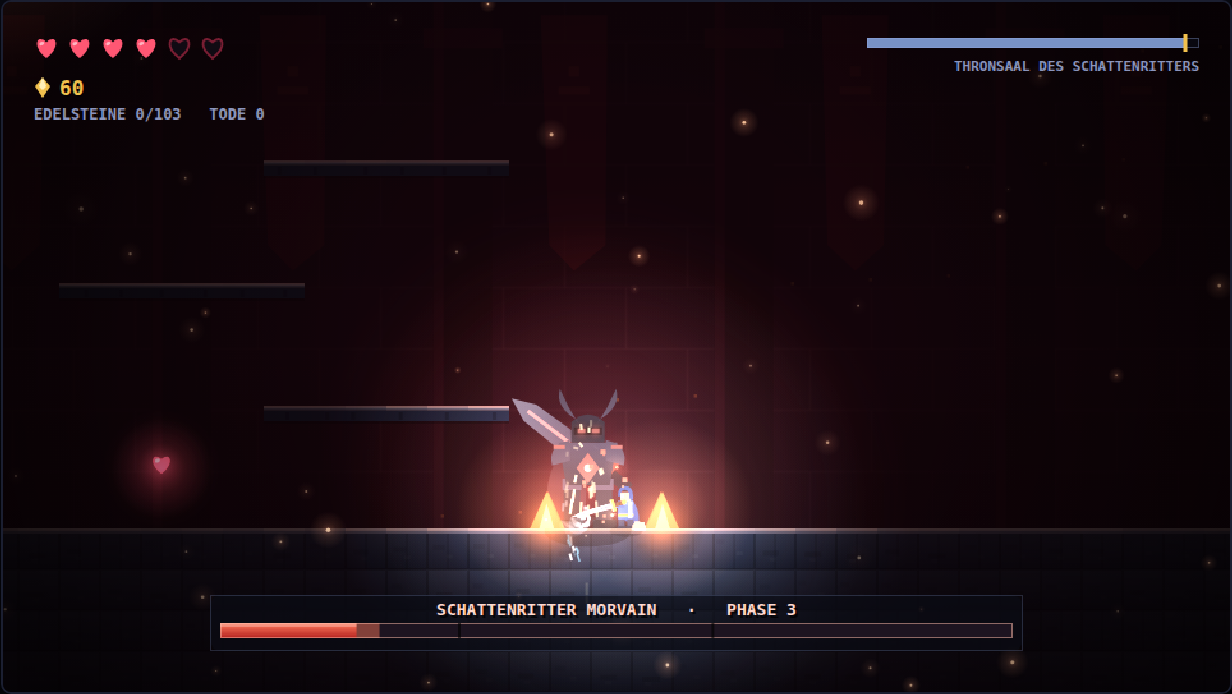
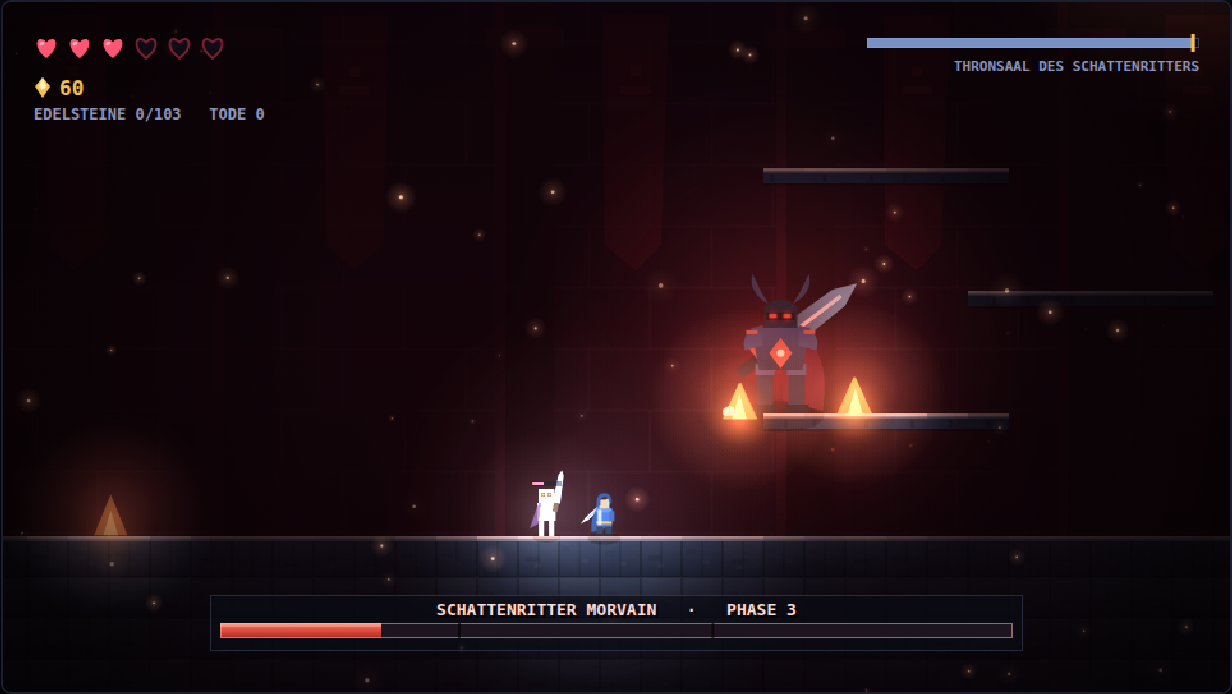
Deko darf die Gegner nicht überstrahlen
Die Bewertung der neuen Requisiten fiel durch, mit Messwerten: Leuchtpilz 255
gegen Fledermaus 203, Kerze 247 gegen Skelett 226. Genau der Fehler, der in
einer früheren Runde schon einmal bemängelt war - das Auge geht zum Pilz statt
zur Fledermaus, die gleich zubeißt.

Nachgemessen mit einem eigenen Prüfskript, das die Requisiten an ihren echten
Positionen abtastet statt in groben Boxen:

- Leuchtpilze, Kristallsplitter und Kerzen dunkler gezeichnet, ihr Eigenschein
  etwa halbiert, und als Lichtquelle zurückhaltender (Stärke 0,7 auf 0,5).
  Unbeleuchtet liegen sie jetzt bei 125 bis 136 statt bei 255.
- Die Kristalle aus den Leveldaten stammen aus der Zeit vor der Beleuchtung
  und waren mit gleichem Maßstab zu hell; Schein und Deckkraft reduziert. Sie
  bleiben Wegmarken, sind aber nicht mehr das Hellste im Bild.
- Gegner werden kräftiger nachgezeichnet (0,34 auf 0,68), und die Fledermaus
  bekommt mehr eigenes Licht: dunkelviolett auf fast schwarz war der am
  schlechtesten lesbare Gegner im Spiel. Fledermäuse jetzt 139 und 211 statt
  120 und 181.
- Silhouetten heller als die Hügel dahinter statt dunkler. Gegen einen fast
  schwarzen Himmel verschwand eine noch dunklere Silhouette; ein Zinnenturm lag
  bei einem Helligkeitsunterschied von 1 zum Himmel.

Ein Pilz misst weiterhin 196: Er steht im Lichtkegel eines Kristalls. Das ist
kein Eigenleuchten, sondern das Beleuchtungsmodell bei der Arbeit - ein
[…]

diff --git a/src/render/scatter.ts b/src/render/scatter.ts
@@ -137,8 +137,8 @@ export class Scatter {
         y: prop.y - 6,
         radius: glow.radius * (0.8 + prop.seed * 0.4),
         rgb: glow.rgb,
-        strength: 0.7,
-        tint: 0.36,
+        strength: 0.5,
+        tint: 0.26,
       });
     }
   }
@@ -207,15 +207,15 @@ export class Scatter {
         ctx.fillStyle = '#1d3a33';
         ctx.fillRect(-1, -h, 2, h);
         const g = ctx.createRadialGradient(0, -h, 0, 0, -h, r * 3.4);
-        g.addColorStop(0, `rgba(128,236,190,${(0.5 * pulse).toFixed(3)})`);
+        g.addColorStop(0, `rgba(128,236,190,${(0.17 * pulse).toFixed(3)})`);
         g.addColorStop(1, 'rgba(128,236,190,0)');
         ctx.fillStyle = g;
         ctx.fillRect(-r * 3.4, -h - r * 3.4, r * 6.8, r * 6.8);
-        ctx.fillStyle = '#7ff0c0';
+        ctx.fillStyle = '#3f9a74';
         ctx.beginPath();
-        ctx.ellipse(0, -h, r, r * 0.75, 0, Math.PI, 0);
+        ctx.ellipse(0, -h, r * 1.25, r * 0.5, 0, Math.PI, 0);
         ctx.fill();
-        ctx.fillStyle = '#d8fff0';
+        ctx.fillStyle = '#6bbd99';
         ctx.fillRect(-r * 0.4, -h - r * 0.5, r * 0.5, 1.5);
         break;
       }
@@ -254,14 +254,14 @@ export class Scatter {
       }
       case 'shard': {
         const h = 7 + s * 9;
-        ctx.fillStyle = 'rgba(99,230,255,0.75)';
+        ctx.fillStyle = 'rgba(72,168,196,0.7)';
         ctx.beginPath();
         ctx.moveTo(-2.5, 0);
         ctx.lineTo(0, -h);
         ctx.lineTo(2.5, 0);
         ctx.closePath();
         ctx.fill();
-        ctx.fillStyle = 'rgba(216,250,255,0.8)';
+        ctx.fillStyle = 'rgba(150,196,214,0.7)';
         ctx.fillRect(-0.6, -h + 2, 1.2, h - 3);
         break;
       }
@@ -279,14 +279,14 @@ export class Scatter {
       }
       case 'candle': {
         const flicker = 0.8 + Math.sin(time * 8 + s * 11) * 0.2;
-        ctx.fillStyle = '#d8cfc0';
+        ctx.fillStyle = '#9c948a';
         ctx.fillRect(-1.5, -8, 3, 8);
         const g = ctx.createRadialGradient(0, -10, 0, 0, -10, 12);
-        g.addColorStop(0, `rgba(255,190,110,${(0.55 * flicker).toFixed(3)})`);
+        g.addColorStop(0, `rgba(255,190,110,${(0.22 * flicker).toFixed(3)})`);
         g.addColorStop(1, 'rgba(255,190,110,0)');
         ctx.fillStyle = g;
         ctx.fillRect(-12, -22, 24, 24);
-        ctx.fillStyle = '#ffd08a';
+        ctx.fillStyle = '#c08f58';
         ctx.beginPath();
         ctx.ellipse(0, -10, 1.6, 2.6 * flicker, 0, 0, Math.PI * 2);
         ctx.fill();

diff --git a/src/game.ts b/src/game.ts
@@ -503,7 +503,9 @@ export class Game implements World {
           add(enemy.cx, enemy.cy, 62, '124,224,122', 0.7, 0.3);
           break;
         case 'bat':
-          add(enemy.cx, enemy.cy, 70, '176,140,235', 0.75, 0.32);
+          // Dark purple on near-black: without a light of its own the bat is
+          // the least readable thing in the game.
+          add(enemy.cx, enemy.cy, 88, '176,140,235', 0.92, 0.4);
           break;
         default:
           add(enemy.cx, enemy.cy, 76, '206,214,235', 0.7, 0.26);
@@ -639,7 +641,10 @@ export class Game implements World {
 
     ctx.save();
     ctx.globalCompositeOperation = 'lighter';
-    ctx.globalAlpha = 0.34;
+    // Weight chosen against a measurement: the brightest decoration in a scene
+    // must stay below the dimmest enemy, or the eye goes to the mushroom
+    // instead of the bat about to bite.
+    ctx.globalAlpha = 0.68;
     ctx.drawImage(this.castLayer, 0, 0);
     ctx.restore();
   }

diff --git a/src/render/decor.ts b/src/render/decor.ts
@@ -101,7 +101,9 @@ export class Decor {
     } else {
       const pulse = 0.75 + Math.sin(this.anim * 2 + this.seed * 8) * 0.25;
       const flip = this.mount === 'hanging' ? -1 : 1;
-      glow(ctx, this.x + 16, this.y + 16 * flip, 46 * pulse, 'rgba(99,230,255,0.22)');
+      // Dimmed for the lit scene: a landmark, not the brightest thing on
+      // screen. Anything that outshines an enemy pulls the eye off the fight.
+      glow(ctx, this.x + 16, this.y + 16 * flip, 46 * pulse, 'rgba(99,230,255,0.13)');
       ctx.save();
       if (flip < 0) {
         ctx.translate(0, this.y * 2 + 30);
@@ -123,7 +125,7 @@ export class Decor {
         ctx.closePath();
         ctx.fill();
         ctx.fillStyle = PALETTE.crystal;
-        ctx.globalAlpha = 0.75;
+        ctx.globalAlpha = 0.5;
         ctx.beginPath();
         ctx.moveTo(this.x + cx, this.y + base - height);
         ctx.lineTo(this.x + cx + 2, this.y + base - height * 0.35);

diff --git a/src/render/background.ts b/src/render/background.ts
@@ -162,8 +162,10 @@ export class Background {
     const spacing = 152;
     const scroll = camera.x * 0.34;
     const baseY = viewH * 1.02 - camera.y * 0.2;
-    const near = mixHex(hillColor, '#000000', 0.3);
-    const dark = mixHex(hillColor, '#000000', 0.55);
+    // Etwas heller als die Hügel dahinter, nicht dunkler: gegen einen fast
+    // schwarzen Himmel verschwindet eine noch dunklere Silhouette einfach.
+    const near = mixHex(hillColor, '#ffffff', 0.06);
+    const dark = mixHex(hillColor, '#000000', 0.25);
 
     const first = Math.floor(scroll / spacing) - 1;
     for (let i = first; i * spacing - scroll < viewW + spacing; i++) {
